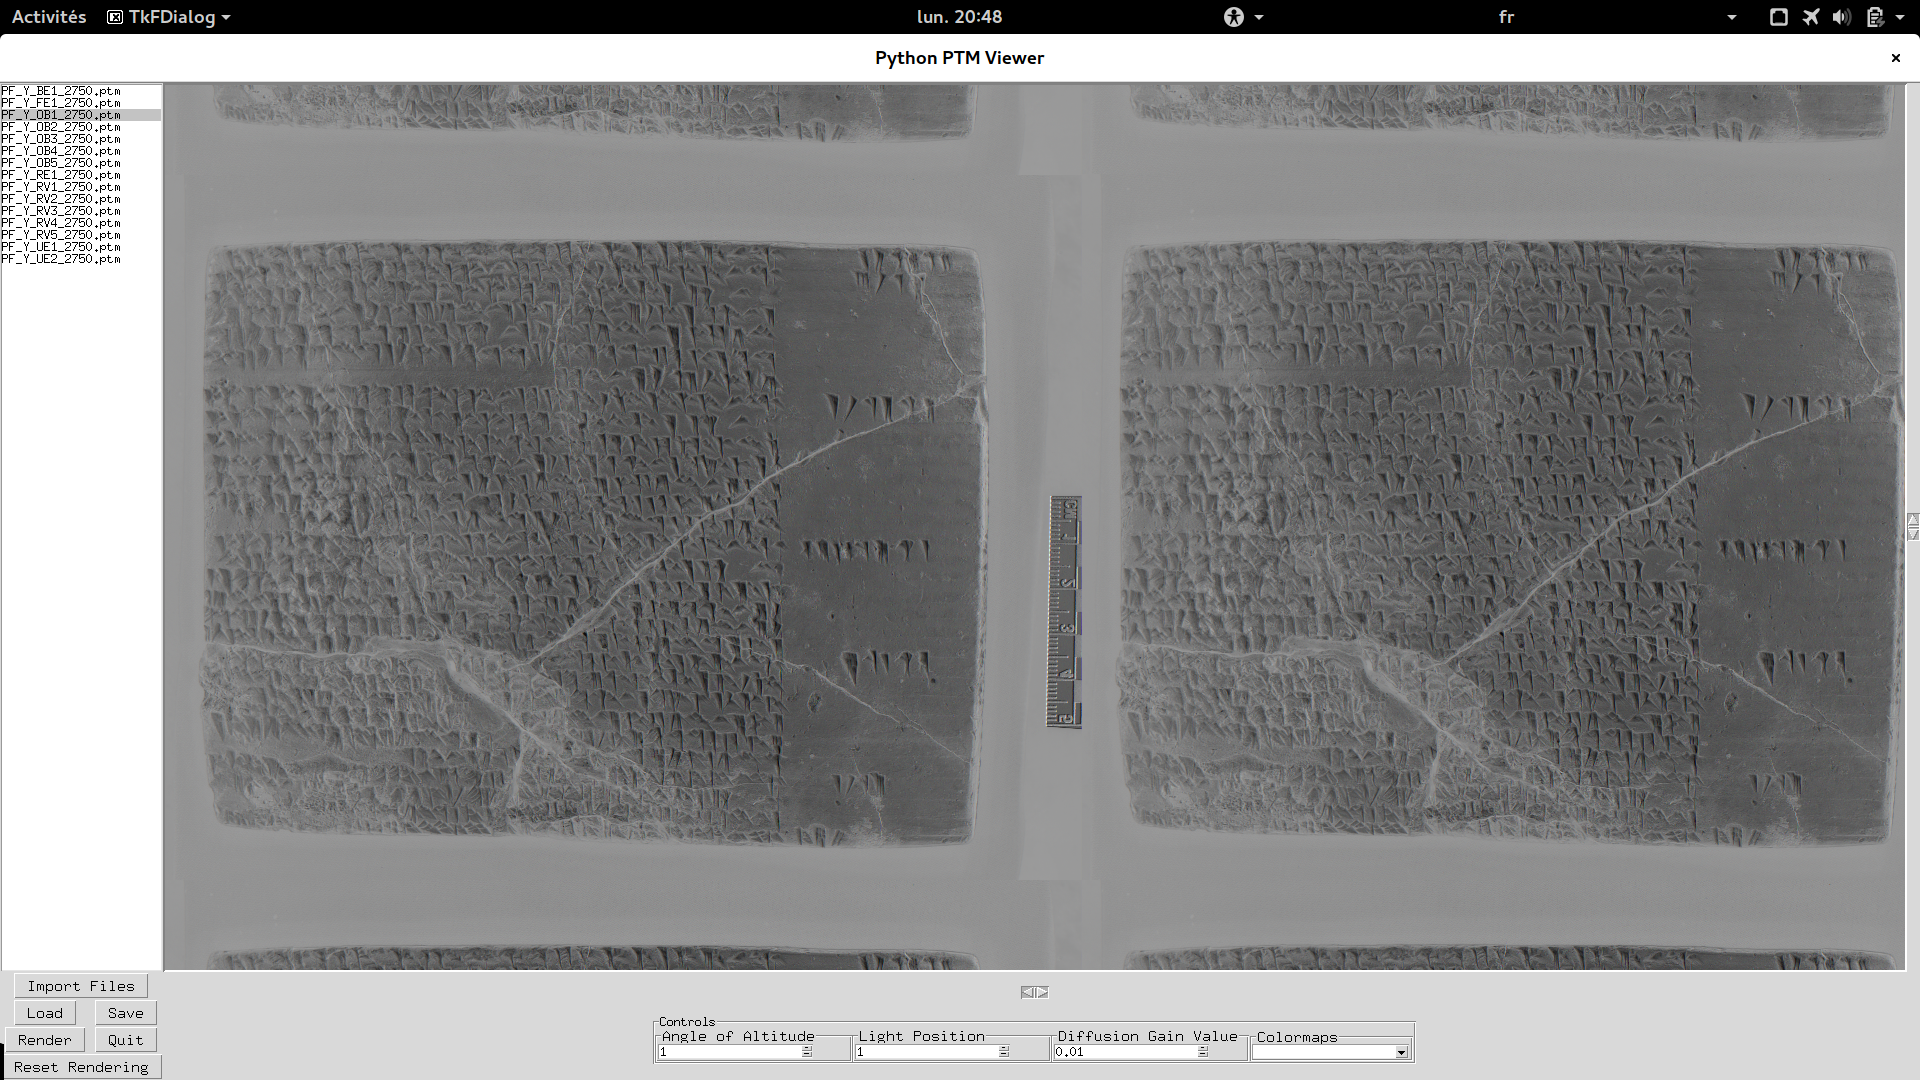
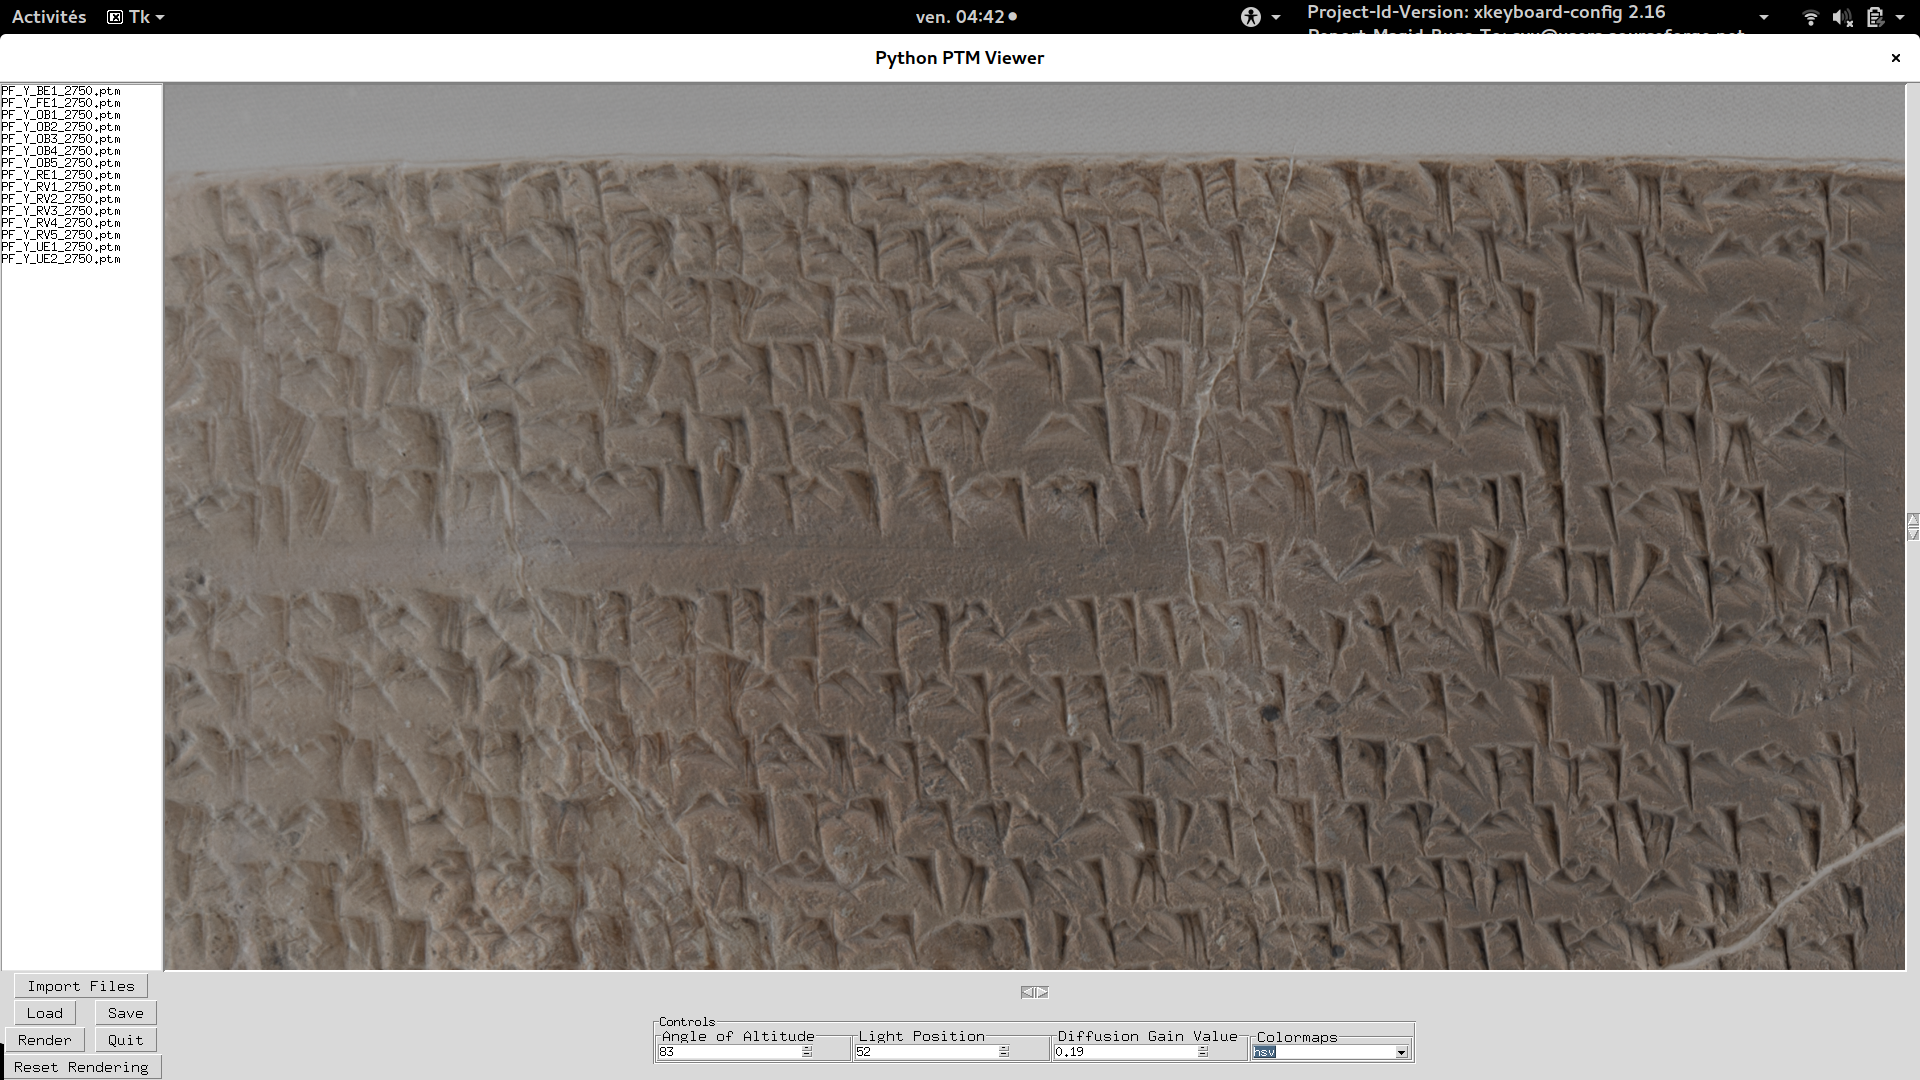
Color computation now works now onto stimulating light effects
I can reconstruct the image from ptm now. I need to deal with light effects
to enchance contrast with normals etc.

diff --git a/main/core.py b/main/core.py
@@ -22,16 +22,28 @@ class PTMFileParse:
             self.raw = [raw_line for raw_line in self.raw if raw_line]
         self.header = self.raw[0].decode('utf-8').strip()
         self.format = self.raw[1].decode('utf-8').strip()
-        self.image_width = int(self.raw[2].decode('utf-8').strip())
-        self.image_height = int(self.raw[3].decode('utf-8').strip())
-        self.scales = self.raw[4].decode('utf-8').strip().split()
-        self.scales = np.array([float(s) for s in self.scales], dtype=np.float)
-        self.biases = self.raw[5].decode('utf-8').strip().split()
-        self.biases = np.array([int(b) for b in self.biases], dtype=np.int32)
         if self.format != "PTM_FORMAT_RGB":
             raise ValueError('ptm format {0} not supported'.format(self.format)
                              )
 
+    @property
+    def image_width(self):
+        return int(self.raw[2].decode('utf-8').strip())
+
+    @property
+    def image_height(self):
+        return int(self.raw[3].decode('utf-8').strip())
+
+    @property
+    def scales(self):
+        scales = self.raw[4].decode('utf-8').strip().split()
+        return np.array([float(s) for s in scales], dtype=np.float32)
+
+    @property
+    def biases(self):
+        biases = self.raw[5].decode('utf-8').strip().split()
+        return np.array([int(b) for b in biases], dtype=np.int32)
+        
     def get_coeffarr(self):
         "Get coefficients array from bytelist"
         if self.format == "PTM_FORMAT_RGB":
@@ -83,17 +95,49 @@ def getDistancePoint2Array(apoint, coordarr):
     return np.sqrt(xdist + ydist)
 
 
-def interpolateImage(imarr: np.ndarray):
+class ImageArray:
+    "Image array have some additional properties besides np.ndarray"
+
+    def __init__(self, image: np.ndarray):
+        assert isinstance(image, np.ndarray)
+        self.image = image
+
+    @property
+    def norm_coordinates(self):
+        "Get normalized coordinates of the image pixels"
+        rownb, colnb = self.image.shape[:2]
+        coords = [[(row, col) for col in range(colnb)] for row in range(rownb)]
+        coordarray = np.array(coords)
+        coordarray = coordarray.reshape((-1, 2))
+        coordarray[:, 0] = coordarray[:, 0] / rownb
+        coordarray[:, 1] = coordarray[:, 1] / colnb
+        return coordarray
+
+    @property
+    def norm_image(self):
+        "Get normalized image with pixel values divided by 255"
+        return self.image / 255.0
+
+    @property
+    def coordinates(self):
+        "Coordinates of the image pixels"
+        rownb, colnb = self.image.shape[:2]
+        coords = [[(row, col) for col in range(colnb)] for row in range(rownb)]
+        coordarray = np.array(coords)
+        return coordarray.reshape((-1, 2))
+
+
+def interpolateImage(imarr: ImageArray):
     "Interpolate image array"
-    imshape = imarr.shape
-    newimage = imarr.flatten()
+    imshape = imarr.image.shape
+    newimage = imarr.image.flatten()
     newimage = np.uint8(np.interp(newimage,
                                   (newimage.min(),
                                    newimage.max()),
                                   (0, 255))
                         )
-    newimage = newimage.reshape(shape)
-    return newimage
+    newimage = newimage.reshape(imshape)
+    return ImageArray(newimage)
 
 
 class LightSource:
@@ -125,15 +169,26 @@ class LightSource:
         return getDistancePoint2Array(apoint=normpoint,
                                       coordarr=norm_coordinates)
 
-    def assignColor2Image(self, image: np.ndarray,
-                          coordarray: np.ndarray,
-                          factor: float):
+
+class Shader:
+    "Shader regroups shading methods operating on pixels"
+
+    def __init__(self, image: np.ndarray,
+                 light_source: LightSource):
+        assert isinstance(image, np.ndarray)
+        self.image = ImageArray(image)
+        self.light_source = light_source
+
+    def assignColor2Image(self,
+                          factor: float,
+                          coordarr):
         """
         Assign new colors to image using coordinate array
 
         The main idea is to assign to the pixels specified in the
         coordinate array a color that is indicated by the factor
         """
+        image = self.image.image
         image_factored = np.copy(image).astype(np.float32) * factor
         newimage = np.zeros_like(image, dtype=np.float32)
         newimage[coordarr[:, 0],
@@ -142,13 +197,13 @@ class LightSource:
         newimage = interpolateImage(newimage)
         return newimage
 
-    def filterWithLightRange(self,
-                             image_colnb: int,
-                             image: np.ndarray,
-                             coordarr: np.ndarray):
+    def filterWithLightRange(self):
         "Filter from image coordinates that are not in light range"
+        image = self.image.image
+        coordarr = self.image.coordinates
+        image_colnb = image.shape[1]
         distance = self.getDistance2Arr(coordarr)
-        inRangeCondition = self.z * image_colnb > distance
+        inRangeCondition = self.light_source.z * image_colnb > distance
         distanceMasked = np.where(inRangeCondition,
                                   distance,  # can't be negative
                                   -1)  # -1 to mark areas outside range
@@ -157,57 +212,30 @@ class LightSource:
         newcoordarr = coordarr[rowCoordinates, :]
         return newcoordarr
 
-    def filterImageSharp(self, image_colnb,
-                         image, coordarr):
+    def filterImageSharp(self):
         "Filter coords outside of light range sharply"
+        image = self.image.image
+        coordarr = self.image.coordinates
+        image_colnb = image.shape[1]
         newcoordarr = self.filterWithLightRange(image_colnb,
                                                 image,
                                                 coordarr)
-        newimage = self.assignColor2Image(image=image,
-                                          coordarray=newcoordarr,
+        newimage = self.assignColor2Image(coordarray=newcoordarr,
                                           factor=1.0)
         return newimage
 
-    def filterImageDistanceFactor(self, image_colnb,
-                                  image, coordarr):
+    def filterImageDistanceFactor(self):
         "Filter coords outside of light range with a factor of distance"
-        newcoord = self.filterWithLightRange(image_colnb,
-                                             image, coordarr)
-
-
-
-
-class Shader:
-    "Shader regroups shading methods operating on pixels"
-
-    def __init__(self,
-                 image: np.ndarray):
-        assert isinstance(image, np.ndarray)
-        self.image = image
-
-    @property
-    def norm_coordinates(self):
-        "Get normalized coordinates of the image pixels"
-        rownb, colnb=self.image.shape[:2]
-        coords=[[(row, col) for col in range(colnb)] for row in range(rownb)]
-        coordarray=np.array(coords)
-        coordarray=coordarray.reshape((-1, 2))
-        coordarray[:, 0]=coordarray[:, 0] / rownb
-        coordarray[:, 1]=coordarray[:, 1] / colnb
-        return coordarray
-
-    @property
-    def norm_image(self):
-        "Get normalized image with pixel values divided by 255"
-        return self.image / 255.0
-
-    @property
-    def coordinates(self):
-        "Coordinates of the image pixels"
-        rownb, colnb=self.image.shape[:2]
-        coords=[[(row, col) for col in range(colnb)] for row in range(rownb)]
-        coordarray=np.array(coords)
-        return coordarray.reshape((-1, 2))
+        coordarr = self.image.coordinates
+        image_colnb = self.image.image.shape[1]
+        distance = self.light_source.getDistance2Arr(arr=coordarr)
+        factor = self.light_source.z * image_colnb
+        factor = distance / factor
+        factor = 1 - factor
+        newcoord = self.filterWithLightRange()
+        newimage = self.assignColor2Image(factor=factor,
+                                          coordarr=newcoord)
+        return newimage
 
     def shade(self,
               fn: lambda x: x,
@@ -314,30 +342,21 @@ class PTMHandler:
                           luvec,
                           lvvec,
                           np.ones_like(lvvec)], dtype=np.float)
-        return np.transpose(l_mat, (1, 0))
+        return l_mat.T
 
-    def get_light_direction_vector(self, coeffarr: np.ndarray):
+    def get_light_direction_matrix(self, coeffarr: np.ndarray):
         "Set light direction vector from coeffarr"
         luvec = self.get_light_dirU_vec(coeffarr)
         lvvec = self.get_light_dirV_vec(coeffarr)
         return self.form_light_direction_mat(luvec, lvvec)
 
-    def get_luminance(self, coeffarr):
-        "get luminance from coeffarr to have images"
-        light_mat = self.get_light_direction_vector(coeffarr)
-        flatim = np.sum(coeffarr * light_mat, dtype=np.uint32, axis=1)
-        flatim = np.squeeze(flatim)
-        # interpolate the range into 0 - 255
-        flatim = np.uint8(np.interp(flatim,
-                                    (flatim.min(),
-                                     flatim.max()),
-                                    (0, 255))
-                          )
-        return flatim
-
-    def set_luminance(self, coeffarr):
-        "Set L value from coeffarr"
-        self.L = self.get_luminance(coeffarr)
+    def get_channel_intensity(self, channel_coeffarr: np.ndarray):
+        "Get channel intensity given channel coefficient array"
+        arr = channel_coeffarr.reshape((-1, 6))
+        light_dir_mat = self.get_light_direction_matrix(arr)
+        intensity = np.sum(arr * light_dir_mat, axis=1, dtype=np.float32)
+        return np.squeeze(intensity.reshape((self.imheight,
+                                             self.imwidth, -1)))
 
     def form_surface_normal(self, luvec,
                             lvvec):
@@ -394,12 +413,19 @@ class PTMHandler:
 
     def computeImage(self, coeffarr):
         "Compute image from coefficient array"
-        flatim = self.get_luminance(coeffarr)
-        image = flatim.reshape((self.imheight,
-                                self.imwidth,
-                                3))
-
-        return image
+        imcoeffarr = coeffarr.reshape((3, 
+                                       self.imheight * self.imwidth,
+                                       6))
+        image = np.zeros((self.imheight, self.imwidth, 3), dtype=np.float32)
+        redchannel = self.get_channel_intensity(imcoeffarr[0, :, :])
+        greenchannel = self.get_channel_intensity(imcoeffarr[1, :, :])
+        bluechannel = self.get_channel_intensity(imcoeffarr[2, :, :])
+        image[:, :, 0] = redchannel
+        image[:, :, 1] = greenchannel
+        image[:, :, 2] = bluechannel
+        imarr = ImageArray(image)
+        img = interpolateImage(imarr)
+        return img.image
 
     def change_diffuse_gain(self, g: float,
                             coeffarr: np.ndarray):
@@ -560,5 +586,5 @@ def setUpHandler(ptmpath: str):
         image_width=out['image_width'],
         scales=out['scales'],
         biases=out['biases'])
-    handler.setUp()
+    # handler.setUp()
     return handler

diff --git a/main/app.py b/main/app.py
@@ -415,6 +415,8 @@ class Viewer:
         "Get ptmpath and set up ptm handler"
         path = self.ptmfiles[ptmname]['path']
         self.handler = setUpHandler(path)
+        self.handler.image = self.handler.computeImage(np.copy(
+            self.handler.arr))
 
     def loadImage2Canvas(self, imarray):
         "Load handler image to canvas"
